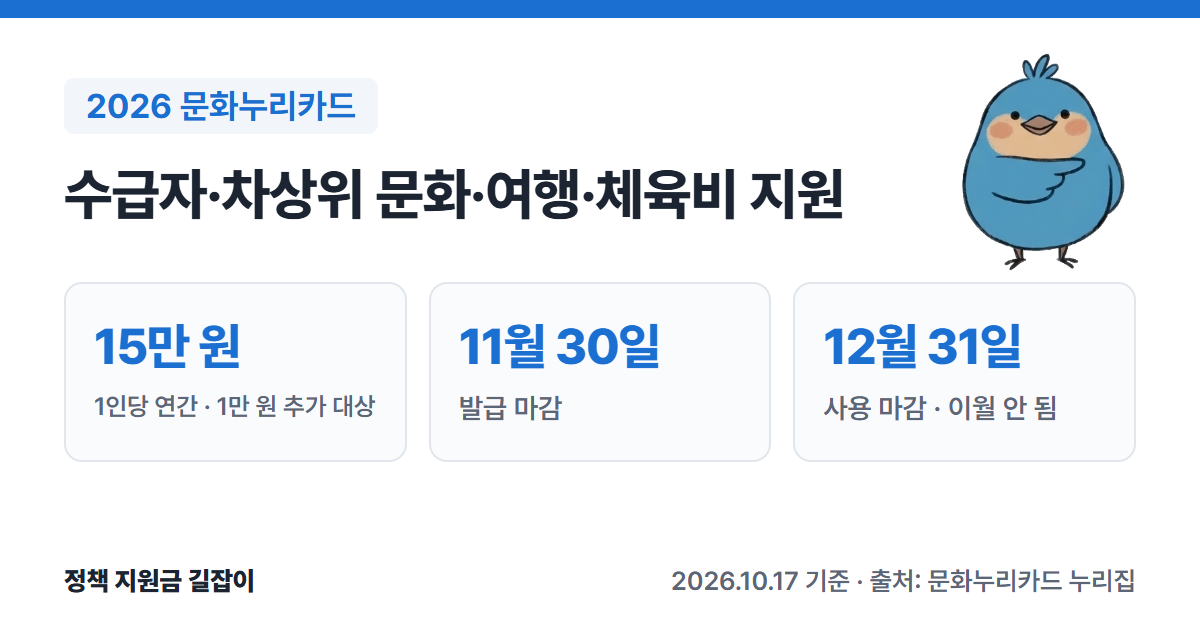
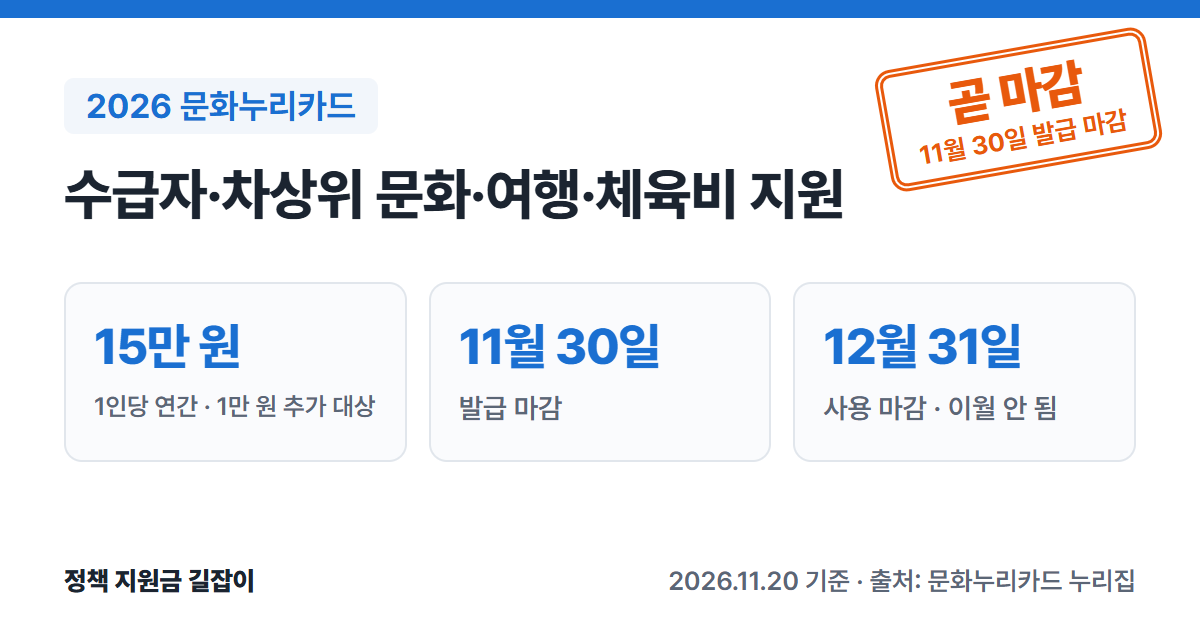
문화누리카드 글: 11/17 마감 공지 반영(18시 마감·재발급 기간), 카드에 곧 마감 도장, 마감 안내 쓰레드 원고 (Fable 검토 반영)

Changed region(s): [[0.74, 0.0302, 0.9867, 0.4222], [0.555, 0.9048, 0.6783, 0.9349], [0.7092, 0.1206, 0.74, 0.2111]]

diff --git a/_tools/card.html b/_tools/card.html
@@ -45,7 +45,7 @@
   <h1 id="title"></h1>
   <div class="stats" id="stats"></div>
   <div class="foot"><b>정책 지원금 길잡이</b><span id="foot"></span></div>
-  <div class="stamp" id="stamp" hidden><div class="s1">신청기간 만료</div><div class="s2" id="stamp-sub"></div></div>
+  <div class="stamp" id="stamp" hidden><div class="s1" id="stamp-main">신청기간 만료</div><div class="s2" id="stamp-sub"></div></div>
 </div>
 <script>
 const cards = {
@@ -443,7 +443,14 @@ const cards = {
     label: "2026 문화누리카드",
     title: "수급자·차상위 문화·여행·체육비 지원",
     stats: [["15만 원", "1인당 연간 · 1만 원 추가 대상"], ["11월 30일", "발급 마감"], ["12월 31일", "사용 마감 · 이월 안 됨"]],
-    foot: "2026.10.17 기준 · 출처: 문화누리카드 누리집"
+    foot: "2026.11.20 기준 · 출처: 문화누리카드 누리집",
+    soon: "11월 30일 발급"
+  },
+  "menstrual-product-voucher-2026": {
+    label: "2026 여성청소년 생리용품 바우처",
+    title: "수급자·차상위·한부모 가구 9~24세",
+    stats: [["16만 8천 원", "연간 · 언제 신청해도 전액"], ["상시 신청", "주민센터·복지로"], ["12월 31일", "사용 마감 · 남으면 소멸"]],
+    foot: "2026.11.20 기준 · 출처: 성평등가족부·복지로"
   },
   "youth-public-rental-2026": {
     label: "2026 청년 공공임대",
@@ -466,9 +473,15 @@ document.getElementById("stats").innerHTML = c.stats
   .map(([v, k]) => `<div class="stat"><div class="v">${v}</div><div class="k">${k}</div></div>`).join("");
 // 캐릭터(2026-11-10~): 기본은 안내하는 모습(guide). 다른 포즈는 char: "happy" 처럼, 빼려면 char: "". 도장 찍힌 카드에는 넣지 않는다
 const ch = c.char ?? "guide";
-if (ch && !c.expired) {
+if (ch && !c.expired && !c.soon) {
   const im = document.createElement("img"); im.className = "char"; if (["hello", "talk", "think"].includes(ch)) im.style.transform = "scaleX(-1)"; im.alt = ""; im.src = "../assets/brand/char/" + ch + ".png"; // 반전: 오른쪽에 놓이니 글 쪽을 보게
   document.querySelector(".card").classList.add("has-char"); document.querySelector(".card").appendChild(im);
+}
+// 곧 마감(2026-11-20 사용자 지정: 마감 임박 재게시 링크 카드용): soon: "11월 30일 발급" → 주황 도장. 마감 지나면 expired로 바꾼다
+if (c.soon && !c.expired) {
+  const s = document.getElementById("stamp"); s.hidden = false; s.style.color = s.style.borderColor = "#e8590c";
+  document.getElementById("stamp-main").textContent = "곧 마감";
+  document.getElementById("stamp-sub").textContent = c.soon + " 마감";
 }
 if (c.expired) {
   document.getElementById("stamp").hidden = false;

diff --git a/_posts/2026-10-17-culture-nuri-card-2026.md b/_posts/2026-10-17-culture-nuri-card-2026.md
@@ -16,11 +16,11 @@ apply_name: "문화누리카드 누리집"
 2026년 카드는 **11월 30일**까지 발급받을 수 있고, 남은 지원금은 **12월 31일**이 지나면 쓸 수 없어요.
 문화누리카드 누리집과 문화체육관광부 발표를 바탕으로 대상, 금액, 신청 방법, 사용처를 정리했어요.
 
-![2026 문화누리카드 요약: 1인당 연 15만 원, 청소년·준고령기 1만 원 추가, 11월 30일 발급 마감, 12월 31일 사용 마감](/assets/images/cards/culture-nuri-card-2026.png){: .summary-card}
+![(곧 마감, 11월 30일 발급 마감) 2026 문화누리카드 요약: 1인당 연 15만 원, 청소년·준고령기 1만 원 추가, 11월 30일 발급 마감, 12월 31일 사용 마감](/assets/images/cards/culture-nuri-card-2026.png){: .summary-card}
 
 > 💡 **핵심 요약**
 > - 1인당 1년에 **15만 원**이고, 청소년(13~18세)과 준고령기(60~64세)는 **1만 원**을 더 받아요. (출처①②)
-> - 카드 발급은 **2026년 11월 30일**까지, 사용은 **12월 31일**까지예요. 12월 31일이 지나면 남은 돈은 쓸 수 없어요. (출처①③)
+> - 카드 발급은 **2026년 11월 30일**까지, 사용은 **12월 31일**까지예요. 12월 31일이 지나면 남은 돈은 쓸 수 없어요. (출처①③⑤)
 > - 작년에 **3만 원 이상** 쓰고 수급 자격을 유지한 사람은 **1월에 자동 충전**됐어요. 충전이 안 됐다면 11월 30일까지 직접 발급(재충전)을 신청하세요. 예산이 떨어지면 그 전에 마감될 수 있어요. (출처①②)
 
 > **출처 표시 방법**: 본문의 (출처①) 같은 표시는 글 끝 출처 목록의 번호와 같아요.
@@ -39,12 +39,12 @@ apply_name: "문화누리카드 누리집"
 |---|---|
 | 대상 | **6세 이상** 기초생활수급자·차상위계층<br>(2020.12.31. 이전 출생) |
 | 지원 금액 | 1인당 연 **15만 원**<br>청소년·준고령기 **1만 원** 추가 |
-| 발급 기간 | 2026.2.2. ~ **11.30.** |
+| 발급 기간 | 2026.2.2. ~ **11.30.(월) 18시** |
 | 사용 기간 | 발급일 ~ **2026.12.31.** |
 | 사용처 | 공연·영화·전시, 국내 여행, 스포츠 관람 등 |
 | 신청 | 주민센터, 문화누리카드 누리집·앱, 전화(재충전) |
 
-(출처①②)
+(출처①②④)
 
 ---
 
@@ -81,12 +81,14 @@ apply_name: "문화누리카드 누리집"
 
 | 구분 | 기간 |
 |---|---|
-| 발급·재충전 | 2026.2.2.(월) ~ **11.30.(월)** |
+| 발급·재충전 | 2026.2.2.(월) ~ **11.30.(월) 18시** |
 | 사용 | 2026.2.2.(월) ~ **12.31.(목)** |
 
-(출처①)
+(출처①④)
 
-> ⚠ **12월 31일이 지나면 남은 지원금은 쓸 수 없어요.** 연말 전에 꼭 쓰세요. (출처①③)
+주민센터·누리집·앱은 **11월 30일(월) 18시**까지 신청이 끝나야 하고, 전화(ARS) 재충전도 18시까지 끝나지 않으면 재충전이 안 돼요. (출처④)
+
+> ⚠ **12월 31일이 지나면 남은 지원금은 쓸 수 없어요.** 연말 전에 꼭 쓰세요. (출처①③⑤)
 
 ### 작년에 받았다면: 자동 재충전
 
@@ -139,7 +141,8 @@ apply_name: "문화누리카드 누리집"
 
 ## 놓치기 쉬운 점
 
-- **11월 30일 전에도 마감될 수 있어요.** 기본지원금 예산이 떨어지면 새 발급과 재충전이 안 되고, 추가지원금 예산이 떨어지면 기본 15만 원만 받아요. (출처②)
+- **11월 30일 전에도 마감될 수 있어요.** 지역별 예산이 떨어지면 마감일 전이라도 새 발급과 재충전이 안 되고, 추가지원금 예산이 떨어지면 기본 15만 원만 받아요. (출처②④)
+- **우편으로 받으려면 더 서둘러야 해요.** 등기 배송에 영업일 기준 3~5일이 걸려요. 농협 지점에서 받으려면 카드가 있는지 먼저 전화로 확인하세요. (출처④)
 - **우편으로 받은 카드는 바로 못 써요.** 카드를 받은 뒤 누리집이나 앱에서 **수령 등록**을 마쳐야 쓸 수 있어요. (출처①)
 - **작년에 3만 원 미만으로 썼다면 자동 충전이 안 돼요.** 자동 충전은 2025년에 카드를 받아 3만 원 이상 쓰고 수급 자격을 유지한 사람이 대상이에요(자세한 요건은 누리집 공지사항). 그 밖에는 11월 30일까지 직접 신청해야 해요. (출처①)
 - **전화 재충전이 안 되는 경우가 있어요.** 전화(ARS) 재충전은 14세 이상이면서 유효기간이 2027년 이후인 카드와 본인 명의 휴대전화가 있는 사람만 할 수 있어요. 복지시설에 사는 사람도 안 되고, 알뜰폰은 LGU+만 돼요. 이런 경우는 주민센터나 누리집·앱으로 신청하세요. (출처①)
@@ -151,16 +154,16 @@ apply_name: "문화누리카드 누리집"
 ## 자주 묻는 질문
 
 **Q. 지금 신청해도 되나요?**
-네. 발급은 **11월 30일**까지 받아요. 받은 돈은 **12월 31일**까지 써야 하니 쓸 시간을 생각해서 서둘러 신청하세요. (출처①)
+네. **11월 30일(월) 18시**까지 신청을 마쳐야 해요. 받은 돈은 **12월 31일**까지 써야 하니 쓸 시간을 생각해서 서둘러 신청하세요. (출처①④)
 
 **Q. 작년에 받은 카드가 있는데 또 신청해야 하나요?**
 작년에 **3만 원 이상** 쓰고 자격이 그대로면 자동으로 충전돼요. 그렇지 않으면 주민센터, 누리집·앱, 전화(ARS)로 재충전을 신청하세요. (출처①)
 
 **Q. 남은 돈을 내년에 쓸 수 있나요?**
-아니요. 사용 기간은 **12월 31일**까지라서, 그 뒤에는 남은 지원금을 쓸 수 없어요. (출처①③)
+아니요. 사용 기간은 **12월 31일**까지라서, 그 뒤에는 남은 지원금을 쓸 수 없어요. (출처①③⑤)
 
 **Q. 카드를 잃어버렸어요.**
-분실 신고는 **NH농협카드 고객센터 1644-4000**에 하세요. 카드 번호가 '9463-17'로 시작하는 카드는 **온라인으로만** 재발급할 수 있고, 재발급 신청은 **2026년 12월 15일**까지예요. (출처①②)
+카드를 잃어버렸다면 **문화누리카드 고객지원센터(1544-3412)**나 **NH농협카드 고객센터(1644-4000)**에 문의하세요. 올해 지원금을 충전한 카드는 주민센터에서 **12월 31일(목) 18시**까지, 누리집·앱에서 **12월 15일(화) 23시 59분**까지 재발급을 신청할 수 있어요. 다만 카드 번호가 9463-17로 시작하는 카드는 **온라인으로만** 재발급할 수 있어서 **12월 15일(화) 23시 59분**까지 신청해야 해요. (출처①②④)
 
 **Q. 어디에 물어보면 되나요?**
 문화누리카드 고객지원센터 **1544-3412**(평일 9~18시, 점심 12~13시 제외)에 문의하세요. (출처①)
@@ -177,8 +180,10 @@ apply_name: "문화누리카드 누리집"
 
 ## 출처
 
-1. [문화누리카드 누리집 - 2026 카드 발급 안내](https://www.mnuri.kr/munhwa/cardIssueGuide.do) - 대상, 차상위계층 범위, 신청 방법, 발급·사용 기간, 자동 재충전, 전화 재충전, 재발급, 고객센터 (확인일: 2026-11-08)
-2. [문화누리카드 누리집 - 문화누리카드란?](https://www.mnuri.kr/munhwa/introduceNuri.do) - 2026년 지원 금액, 추가 지원 대상, 예산 소진 시 처리, 사용처 (확인일: 2026-11-08)
-3. [대한민국 정책브리핑 - 올해 문화누리카드 15만 원 지원…청소년 등엔 1만 원 더 (문화체육관광부)](https://www.korea.kr/news/policyNewsView.do?newsId=148958946) - 인상 폭, 예산, 지원 인원, 가맹점 수, 사용 기한(12월 31일) (확인일: 2026-10-21)
+1. [문화누리카드 누리집 - 2026 카드 발급 안내](https://www.mnuri.kr/munhwa/cardIssueGuide.do) - 대상, 차상위계층 범위, 신청 방법, 발급·사용 기간, 자동 재충전, 전화 재충전, 재발급, 고객센터 (확인일: 2026-11-20)
+2. [문화누리카드 누리집 - 문화누리카드란?](https://www.mnuri.kr/munhwa/introduceNuri.do) - 2026년 지원 금액, 추가 지원 대상, 예산 소진 시 처리, 사용처 (확인일: 2026-11-20)
+3. [대한민국 정책브리핑 - 올해 문화누리카드 15만 원 지원…청소년 등엔 1만 원 더 (문화체육관광부)](https://www.korea.kr/news/policyNewsView.do?newsId=148958946) - 인상 폭, 예산, 지원 인원, 가맹점 수, 사용 기한(12월 31일) (확인일: 2026-11-20)
+4. [문화누리카드 누리집 - 공지사항 388번 「2026년 문화누리카드 신규발급(재충전·재발급) 마감 기간 안내」 (2026.11.17.)](https://www.mnuri.kr/notice/userNotice.do) - 신규발급·재충전 11월 30일 18시 마감, 지역별 예산 소진 시 조기 마감, 재발급 기간, 우편 배송 기간 (확인일: 2026-11-20)
+5. [문화누리카드 누리집 - 사용 안내](https://www.mnuri.kr/useOfCard/useInfo.do) - 남은 지원금은 12월 31일 23시 59분이 지나면 국고로 자동 반납, 다음 해로 이월 안 됨 (확인일: 2026-11-20)
 
-> 이 글은 **2026년 11월 8일** 기준이에요. 신청 전에 문화누리카드 누리집이나 주민센터에서 꼭 확인하세요.
+> 이 글은 **2026년 11월 20일** 기준이에요. 신청 전에 문화누리카드 누리집이나 주민센터에서 꼭 확인하세요.

diff --git a/_schedule.md b/_schedule.md
@@ -57,13 +57,15 @@
 | 11/20(금) 게시 준비 | [x] 게시 완료: 블로그 08:3x(빌드 success, 소득표 모바일 넘침 고침) · 인스타 세트 Df8RV72EicK + 릴스 Df8RYQLjHrK(nofeed) · 쓰레드 Df8Rm3gCuYs — 원래 계획: "올려줘" 때(08:00 이후 push — 글 date 08:00): 블로그 새 글 newlywed-newborn-purchase-rental-2026 신혼·신생아 매입임대 (3순위 신혼부부, 경기북부 3차 12/1~12/3 신청, 11/19 확인, 홈페이지·네이버·쓰레드 중복 없음) — _drafts→_posts, 역링크(신혼희망타운·신혼 전세자금 함께 보면, 청년 매입임대 181줄 "신혼부부용 공공임대"), mobile-check 목록 추가 → 빌드·글 200·mobile-check → 인스타 세트(7장)+릴스 newlywed-newborn-purchase-rental-2026(이미지 먼저 push·200 확인) → 쓰레드 newlywed-newborn-purchase-rental-2026(490자) · 사용자 11/19: "내일 오전에 홈페이지·인스타·쓰레드"(시각 예약 아님, 말씀하실 때 게시) · 원고·흐름도·카드 Fable 검토 반영(❌0 ⚠11), 인스타 카드·캡션 검토 반영(❌0 ⚠8) · 게시 직전 LH 공고 정정 여부 확인 |
 | 11/20(금) 오후 쓰레드 | [x] 17:31 게시 Df9O0jMmPuZ (포털 중단 안내는 게시 직전 사이트에서 확인 안 돼 그 줄 삭제) — kindergarten-admission-2027 유치원 일반모집(487자, link.txt→유아학비 글) — 원고 11/19 작성, Fable 검토 2회 반영(❌0). 근거: 유치원입학 시스템 유아모집일정(접수 11/17~11/23 18시·추첨 11/26 15시·등록 11/27~30 18시), 서울시교육청 10/27 보도자료, 전북교육청 안내, 포털 중단 공지(11/20 20시~11/21 10시). 게시 직전 포털 중단 공지 변경 여부 확인. 마감(11/23 18시) 뒤엔 마감 안내 댓글. 게시는 사용자 요청 때 | Claude |
 | 11/20(금) 점검 | [x] 쓰레드 새 댓글 없음 · 마감 점검 조치 필요 없음 · 애드센스 메일 없음 · 정책뉴스 최근 3일 34건 중 기존 글 변경·새 주제 없음(독감 유행 기사: 무료접종 대상 글과 일치) | Claude |
+| 11/21(토) 오전 게시 | [ ] "올려줘" 때(08:00 이후 push — 글 date 08:00): 블로그 새 글 menstrual-product-voucher-2026 여성청소년 생리용품 바우처(1순위: 한부모 아동양육비 4,052회와 연결, 상시 신청·12/31 사용 마감, 11/20 확인, 블로그·쓰레드 중복 없음) — _drafts→_posts, 역링크(생활비 허브 상황별 표 한 줄, 한부모 아동양육비·문화누리카드 함께 보면), mobile-check 목록 추가 → 빌드·글 200·mobile-check → 인스타 세트(6장)+릴스(reel.mp4는 검토 반영 뒤 생성) → 쓰레드 menstrual-product-voucher-2026 | Claude |
+| 11/21(토) 오후 쓰레드 | [ ] culture-nuri-card-2026-deadline 문화누리카드 11/30 18시 발급·재충전 마감 안내(마감 임박 재게시, 사용자 11/20 허락). 글은 11/17 공지 반영 수정, 카드에 주황 "곧 마감" 도장(card.html soon) — 글 수정·카드는 검토 뒤 미리 push해 og:image 반영, 게시 전 메타 스크랩 | Claude |
 | 2027 지침 나오면(1~2월) | 전기차 보조금 글을 2027 지침으로 갱신 → 쓰레드 첫 게시(쓰레드 중복 없음). 2026년 분은 11/19 기준 서울 11/11 마감 등 대부분 지역 마감이라 보류 | Claude | Claude |
 | 11/19(목) | 네이버 블로그 2주 점검(서치어드바이저 숫자 함께): GA4에서 blog.naver.com 유입 | Claude |
 | 11/24(화) | 네이버 다음 묶음(11/26~) 원고 준비: **원고마다 자주 묻는 질문 2~3개 추가**, **신청 시작·마감 며칠 전 발행되게 일정순 배치**(11-14 사용자 확정) · fact-checker 검토 → naver_pack | Claude |
 | 11/27(금) | 스포츠강좌이용권 신청 마감 · 청년미래적금 2차 계좌 개설 마감 | — |
 | 11/28(토) | 위 두 글 + 신혼희망타운(11월 안산·시흥 공고, 11/27 마감) 카드 "신청기간 만료" 도장 + 인스타·쓰레드 마감 안내 댓글 | Claude |
 | 11/30(월) | 문화누리카드 발급 마감 | — |
-| 12/1(화) | 문화누리 도장·마감 안내 / 근로장려금 기한 후 신청 마감일 | Claude |
+| 12/1(화) | 문화누리 도장(card.html soon 지우고 expired: "2026년 카드 발급")·마감 안내(10/27·11/21 쓰레드 댓글) / 근로장려금 기한 후 신청 마감일 | Claude |
 | 11월 말 | 월간 점검: 쓰레드 3개 운영 숫자, 이모지 효과, 채널별 유입(GA4) · 네이버 애드포스트 후보 비교: 지원길(jiwongil) vs 나혼세 네이버 블로그 월 조회수(각 블로그 통계, 사용자 화면) → 많은 쪽으로 신청(네이버 계정당 사업자 1개라 하나만) | Claude |
 | 12/1(화) | 겨울 프로필 교체(11/18 사용자: "바꿀 날짜 되면 너가 바꿔줘"): 사이트 로고는 작업 스케줄러 jiwongil-winter-logo-on 09:00 자동(로그 ~/.policy-blog/winter_logo.log, 빌드·화면 확인) · 인스타·쓰레드·네이버 프로필 사진은 Claude가 크롬으로 원본 assets/brand/char/산타모자 지원길.jpg 업로드(원형 미리보기 11/18 확인: 지도 아래 모서리만 조금 잘림) | Claude |
 | 12/26(토) | 겨울 프로필 원래대로: 사이트 로고 jiwongil-winter-logo-off 09:00 자동 · SNS·네이버 프로필은 assets/brand/profile-circle.png로 크롬에서 되돌리기 · 끝나면 두 작업 Unregister | Claude |
